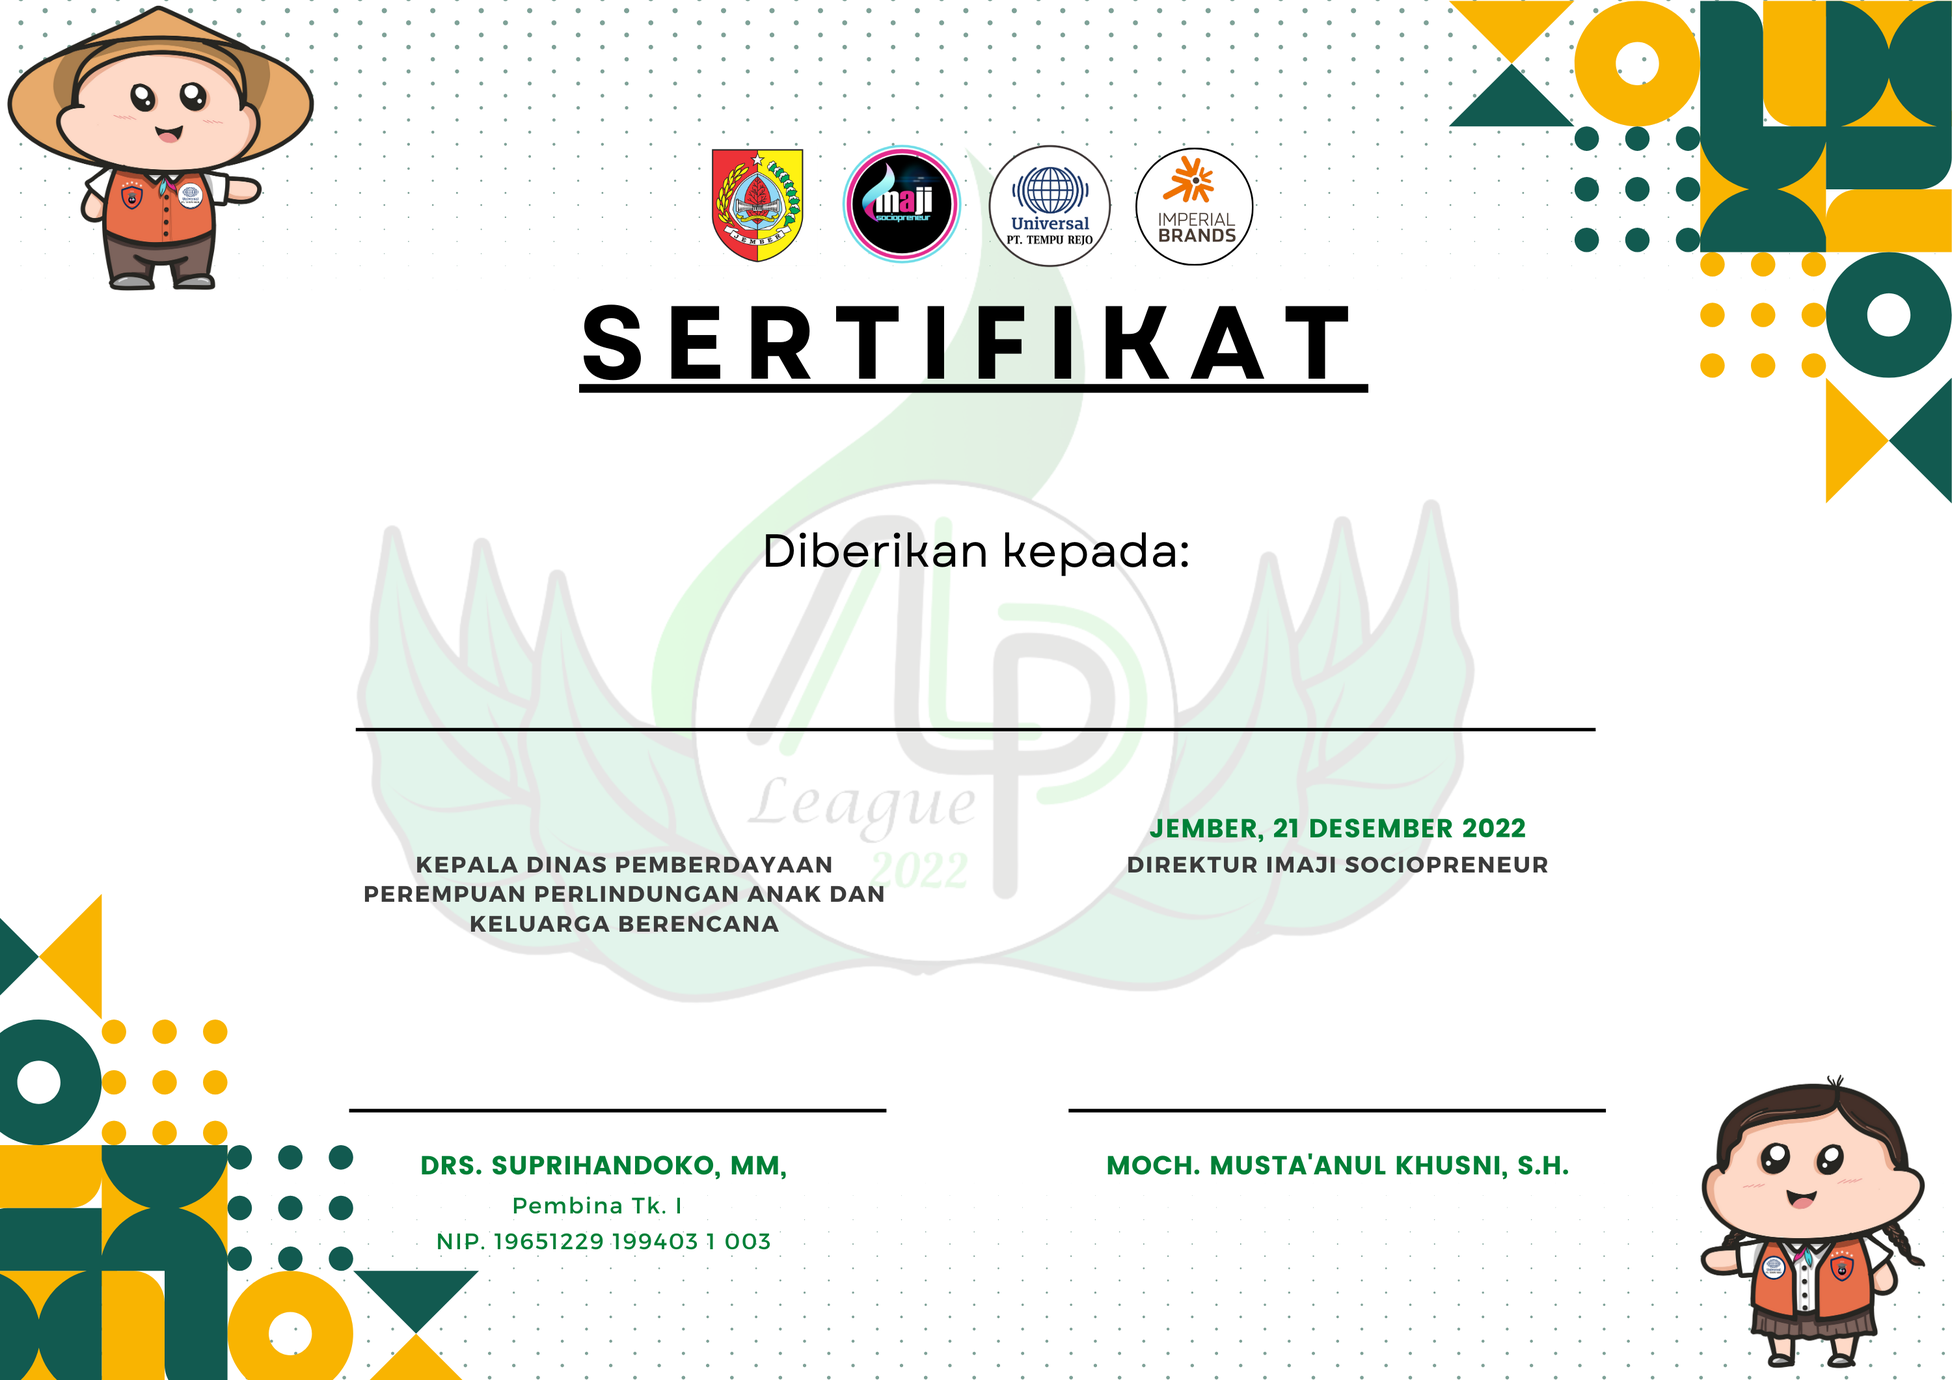
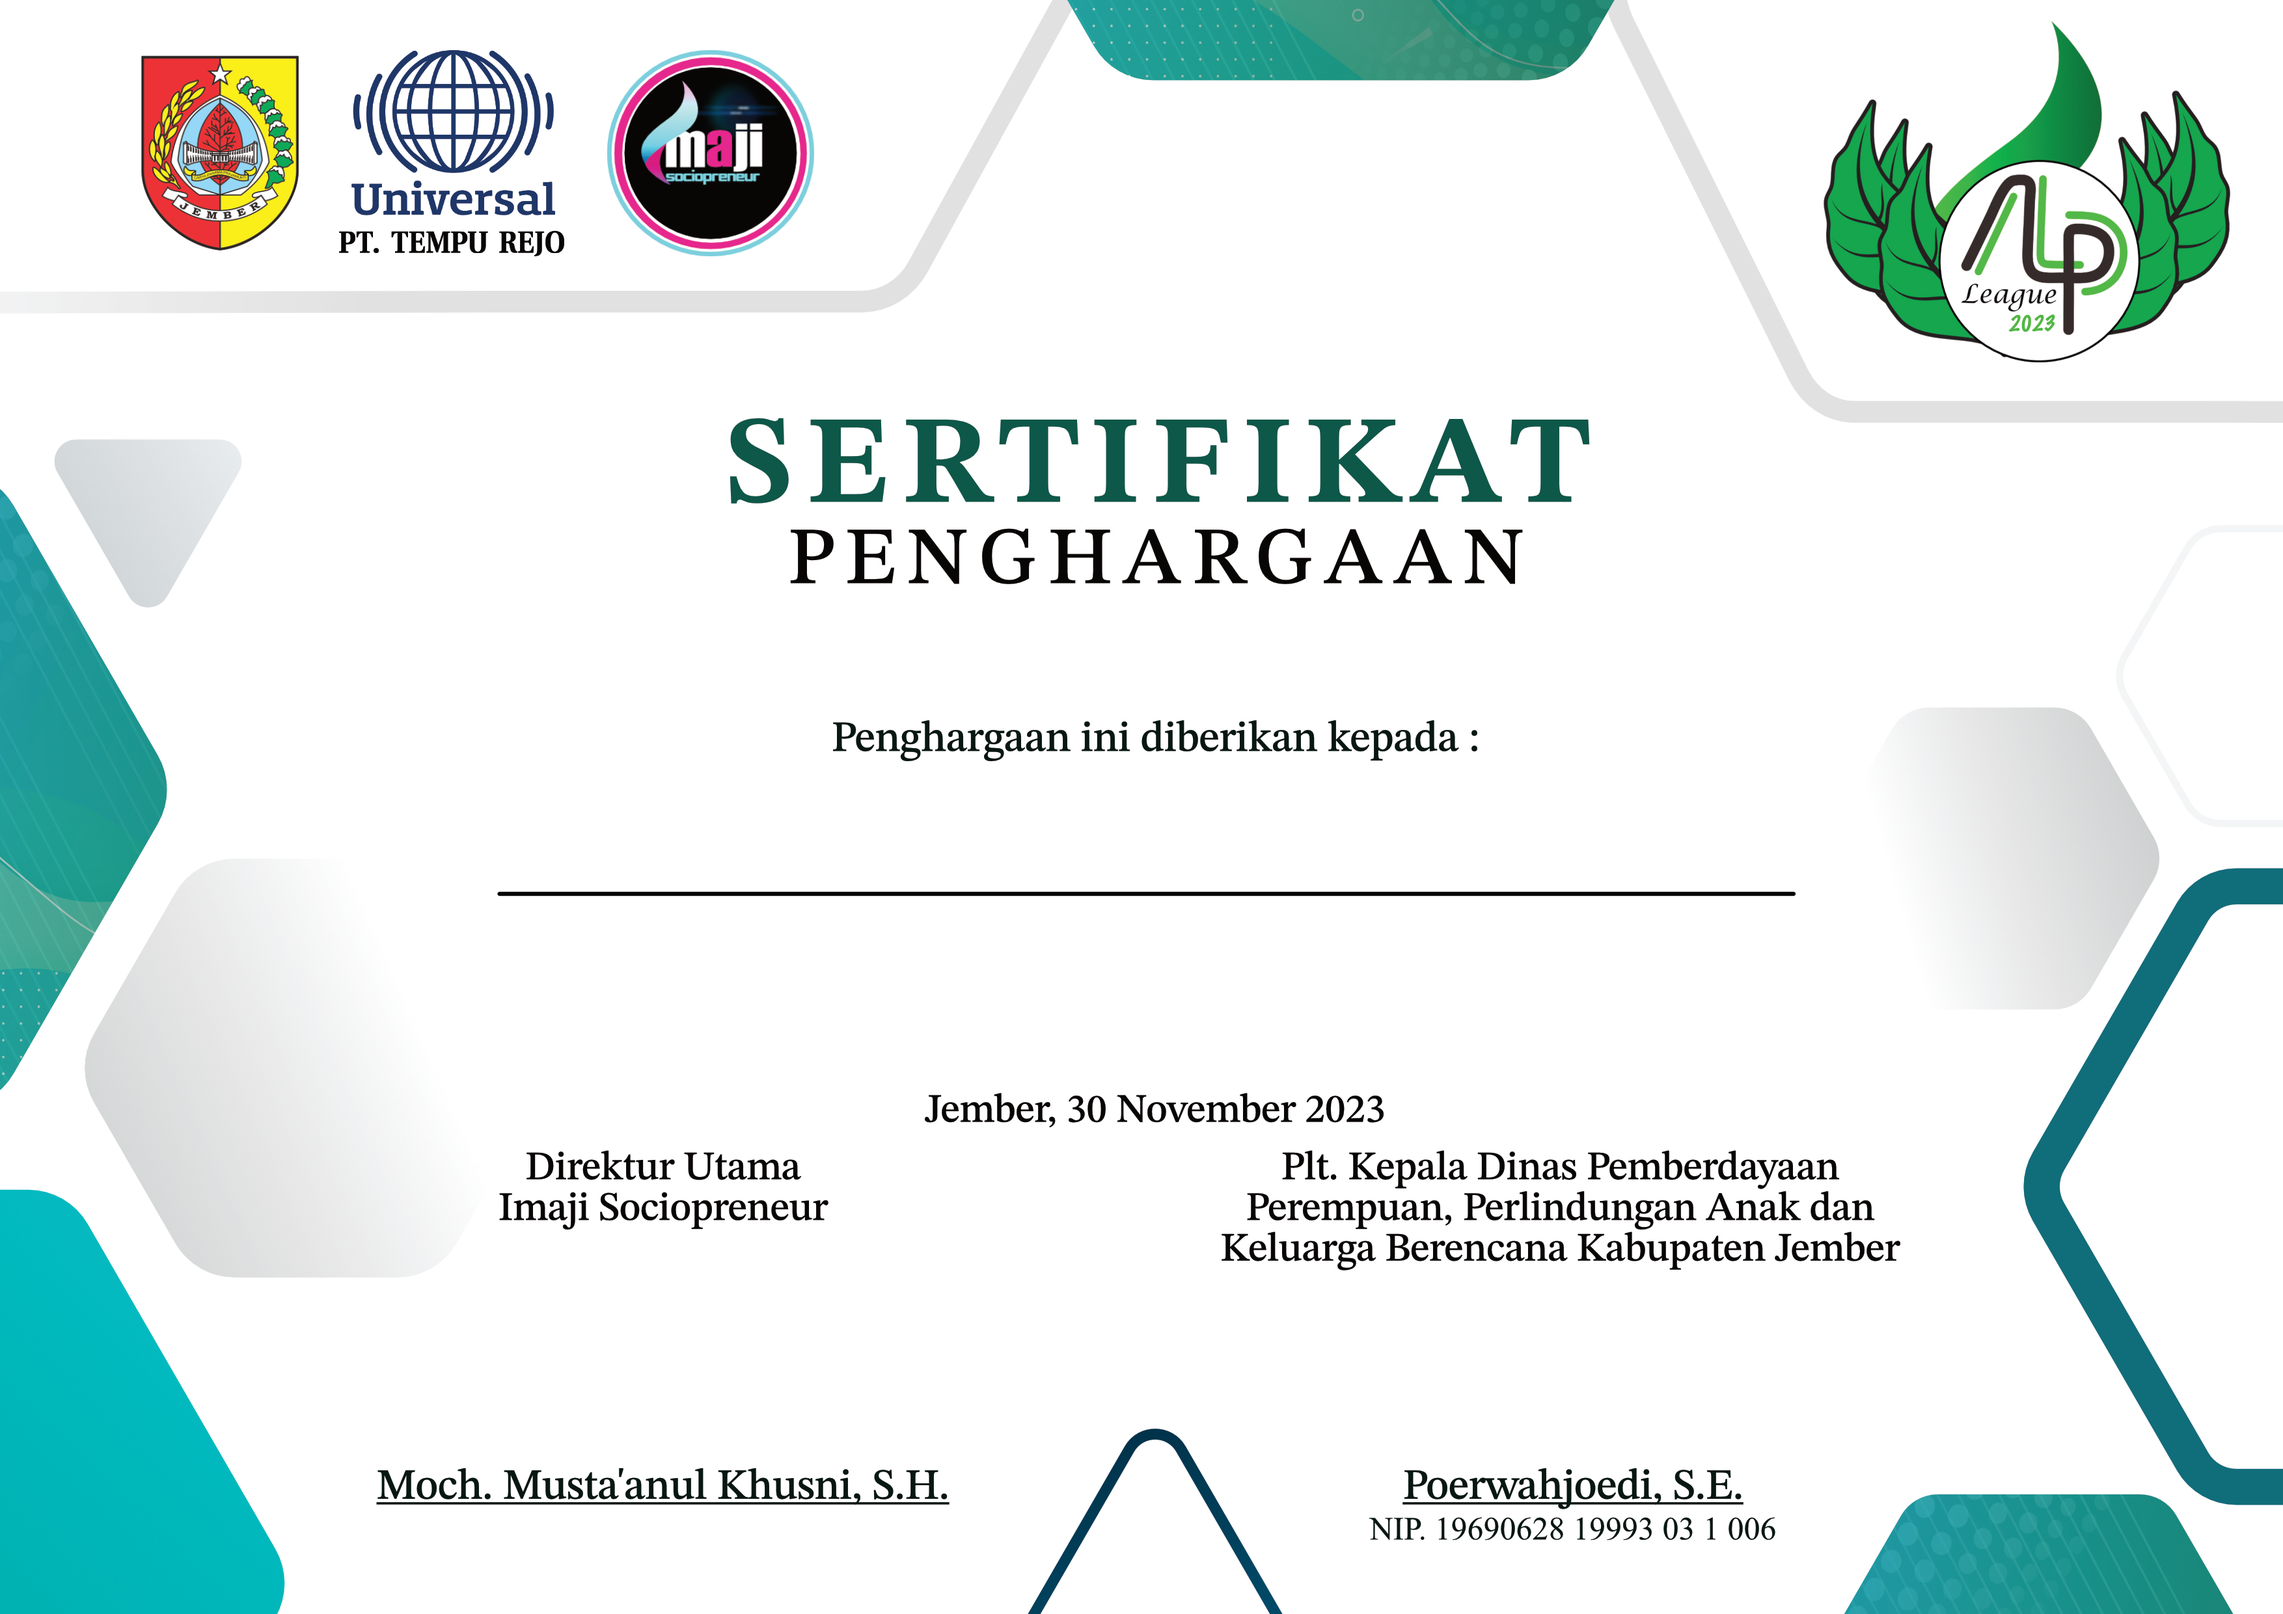
add admin

diff --git a/resources/views/pdf/certificate.blade.php b/resources/views/pdf/certificate.blade.php
@@ -44,20 +44,23 @@
     @endif
     <main style="font-family: 'Times New Roman'; text-align: center">
 
-        <div style="margin-top: 110px">
-            <h3>NO. SERTIFIKAT : {{$c->number}}</h3>
+        <div style="margin-top: 185px">
+            <h4>NO. SERTIFIKAT : {{$c->number}}</h4>
         </div>
-        <div style="margin-top: 85px">
-            <h1 style="font-size: 3.5em; text-transform: uppercase">
+        <div style="margin-top: 40px">
+            <h5 style="font-size: 2.8em; text-transform: uppercase">
                 {{ $c->student->name }}
-            </h1>
+            </h5>
 
         </div>
-        <div style="margin-top: 15px; text-transform: uppercase ">
-            <h5>Sebagai {{ $certificate->title }} {{ $certificate->sport_id? $certificate->sport->title:'' }} dalam ALP LEAGUE KABUPATEN 2022</h5>
+        <div style="margin-top: 15px; font-size: 1.2em">
+            Sebagai {{ $certificate->title }} Lomba {{ $certificate->sport_id? $certificate->sport->title:'' }}
+        </div>
+        <div style="margin-top: -5px; font-size: 1.2em">
+            ALP League Kabupaten Jember 2023
         </div>
     </main>
-{{--    @break--}}
+    {{--    @break--}}
 
 @endforeach
 {{--@if($i!=9)?--}}
